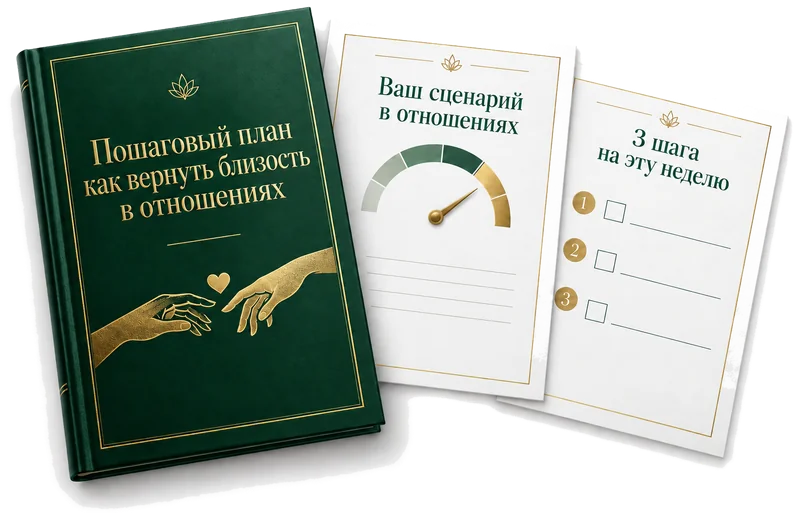
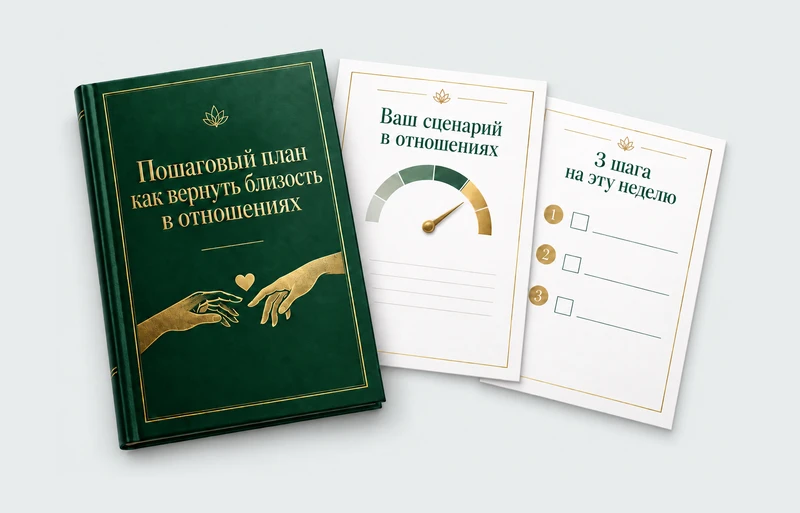
Мокапы первого экрана на цвете фона без вырезания, убрана CSS-тень (Евгений msg 6339)

diff --git a/nezhnost/index.html b/nezhnost/index.html
@@ -1562,7 +1562,7 @@ section.dark .ill{border-color:rgba(255,255,255,.12);}
   #v-intro .e26 .btn{padding:1.15rem 2.6rem;font-size:1.1rem;}
   .mk-desk{display:flex;justify-content:center;align-items:center;}
   .mk-desk .mk-pic{margin:0;width:100%;}
-  .mk-desk .mk-pic img{max-height:none;width:100%;filter:drop-shadow(0 30px 40px rgba(16,58,48,.18));}
+  .mk-desk .mk-pic img{max-height:none;width:100%;}
   /* вопрос: карточка по центру, варианты в 2 колонки */
   #v-quiz section.tsec{min-height:calc(100vh - 58px - 72px);display:flex;align-items:center;padding:48px 24px;}
   #v-quiz .qcard{width:100%;max-width:880px;background:#fff;border:1px solid var(--line);border-radius:28px;padding:40px 48px 44px;box-shadow:0 24px 50px -30px rgba(16,58,48,.28);}

diff --git a/platezhi/index.html b/platezhi/index.html
@@ -1563,7 +1563,7 @@ section.dark .ill{border-color:rgba(255,255,255,.12);}
   #v-intro .e26 .btn{padding:1.15rem 2.6rem;font-size:1.1rem;}
   .mk-desk{display:flex;justify-content:center;align-items:center;}
   .mk-desk .mk-pic{margin:0;width:100%;}
-  .mk-desk .mk-pic img{max-height:none;width:100%;filter:drop-shadow(0 30px 40px rgba(16,58,48,.18));}
+  .mk-desk .mk-pic img{max-height:none;width:100%;}
   /* вопрос: карточка по центру, варианты в 2 колонки */
   #v-quiz section.tsec{min-height:calc(100vh - 58px - 72px);display:flex;align-items:center;padding:48px 24px;}
   #v-quiz .qcard{width:100%;max-width:880px;background:#fff;border:1px solid var(--line);border-radius:28px;padding:40px 48px 44px;box-shadow:0 24px 50px -30px rgba(16,58,48,.28);}

diff --git a/podyom/index.html b/podyom/index.html
@@ -1562,7 +1562,7 @@ section.dark .ill{border-color:rgba(255,255,255,.12);}
   #v-intro .e26 .btn{padding:1.15rem 2.6rem;font-size:1.1rem;}
   .mk-desk{display:flex;justify-content:center;align-items:center;}
   .mk-desk .mk-pic{margin:0;width:100%;}
-  .mk-desk .mk-pic img{max-height:none;width:100%;filter:drop-shadow(0 30px 40px rgba(16,58,48,.18));}
+  .mk-desk .mk-pic img{max-height:none;width:100%;}
   /* вопрос: карточка по центру, варианты в 2 колонки */
   #v-quiz section.tsec{min-height:calc(100vh - 58px - 72px);display:flex;align-items:center;padding:48px 24px;}
   #v-quiz .qcard{width:100%;max-width:880px;background:#fff;border:1px solid var(--line);border-radius:28px;padding:40px 48px 44px;box-shadow:0 24px 50px -30px rgba(16,58,48,.28);}

diff --git a/prizvanie/index.html b/prizvanie/index.html
@@ -1562,7 +1562,7 @@ section.dark .ill{border-color:rgba(255,255,255,.12);}
   #v-intro .e26 .btn{padding:1.15rem 2.6rem;font-size:1.1rem;}
   .mk-desk{display:flex;justify-content:center;align-items:center;}
   .mk-desk .mk-pic{margin:0;width:100%;}
-  .mk-desk .mk-pic img{max-height:none;width:100%;filter:drop-shadow(0 30px 40px rgba(16,58,48,.18));}
+  .mk-desk .mk-pic img{max-height:none;width:100%;}
   /* вопрос: карточка по центру, варианты в 2 колонки */
   #v-quiz section.tsec{min-height:calc(100vh - 58px - 72px);display:flex;align-items:center;padding:48px 24px;}
   #v-quiz .qcard{width:100%;max-width:880px;background:#fff;border:1px solid var(--line);border-radius:28px;padding:40px 48px 44px;box-shadow:0 24px 50px -30px rgba(16,58,48,.28);}

diff --git a/raznitsa/index.html b/raznitsa/index.html
@@ -1562,7 +1562,7 @@ section.dark .ill{border-color:rgba(255,255,255,.12);}
   #v-intro .e26 .btn{padding:1.15rem 2.6rem;font-size:1.1rem;}
   .mk-desk{display:flex;justify-content:center;align-items:center;}
   .mk-desk .mk-pic{margin:0;width:100%;}
-  .mk-desk .mk-pic img{max-height:none;width:100%;filter:drop-shadow(0 30px 40px rgba(16,58,48,.18));}
+  .mk-desk .mk-pic img{max-height:none;width:100%;}
   /* вопрос: карточка по центру, варианты в 2 колонки */
   #v-quiz section.tsec{min-height:calc(100vh - 58px - 72px);display:flex;align-items:center;padding:48px 24px;}
   #v-quiz .qcard{width:100%;max-width:880px;background:#fff;border:1px solid var(--line);border-radius:28px;padding:40px 48px 44px;box-shadow:0 24px 50px -30px rgba(16,58,48,.28);}
